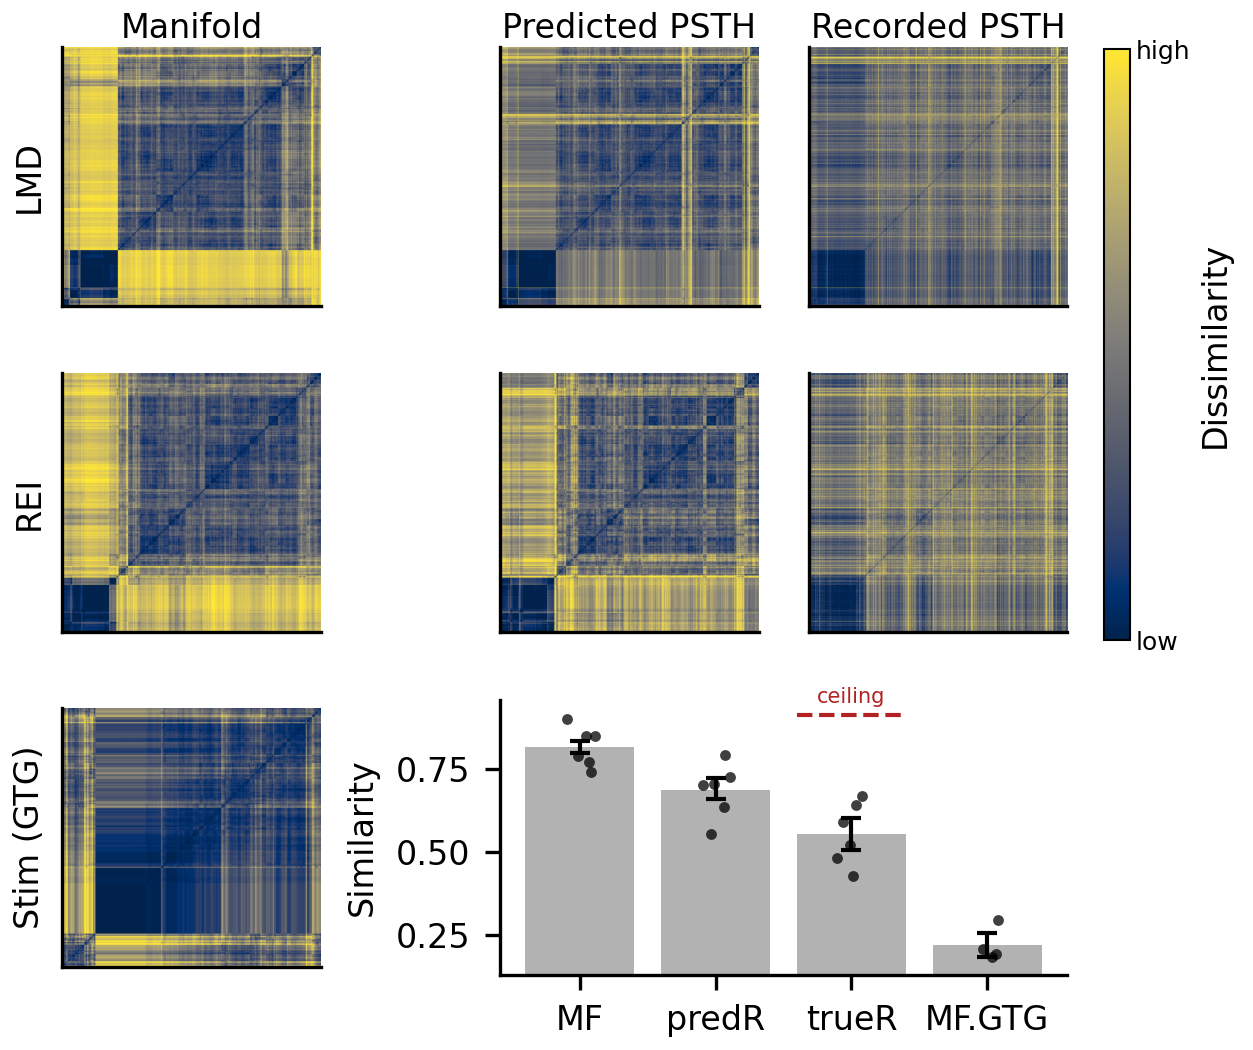
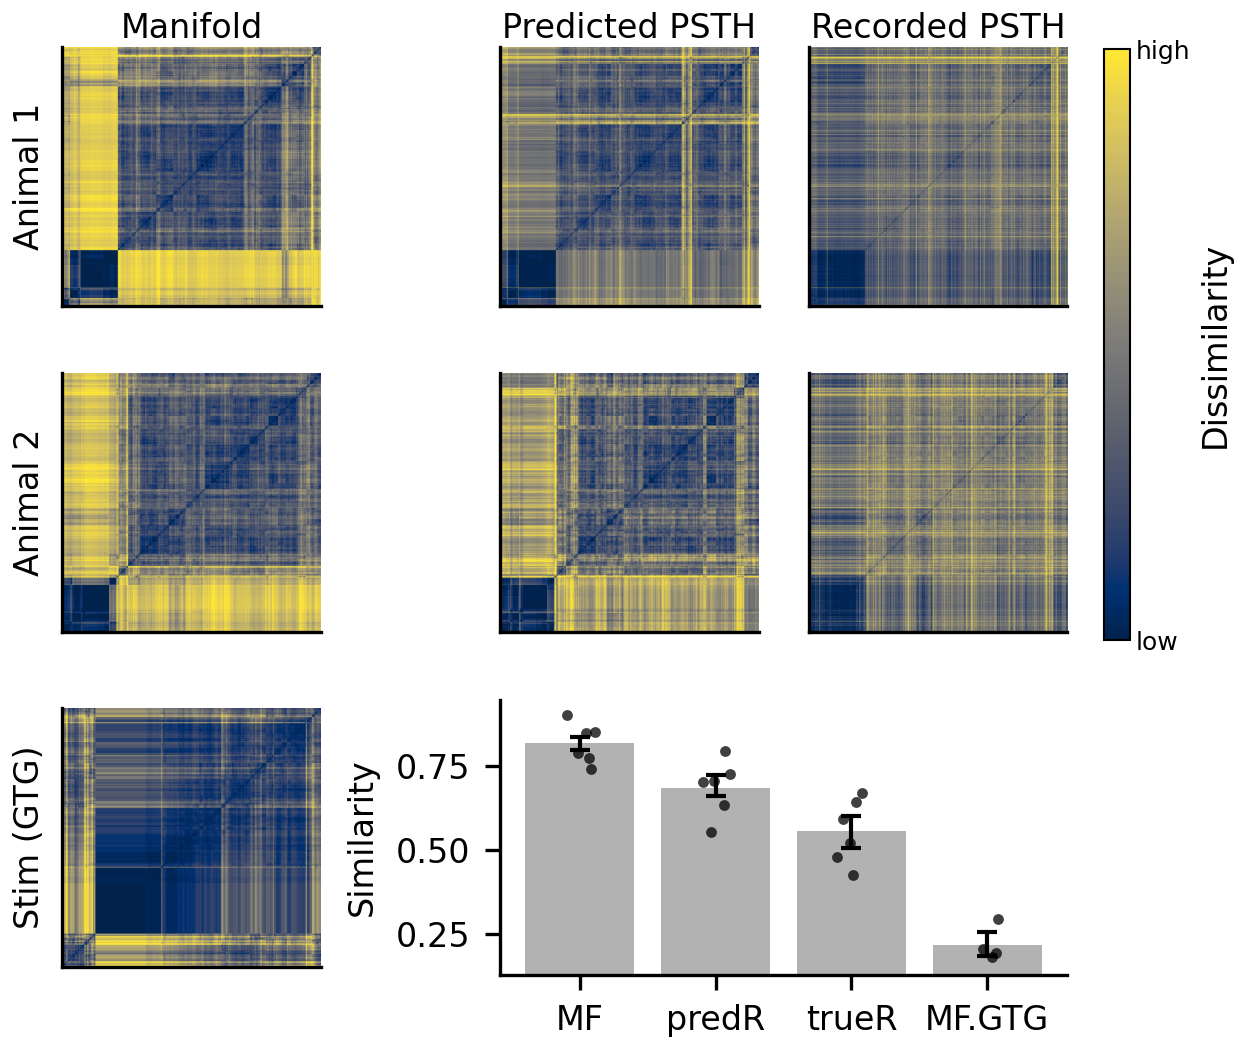
Fig2: drop the ceiling line, label the RDM rows by position
The recorded-PSTH noise ceiling is still computed and reported by print_stats
(mean pairwise ceiling 0.915, trueR at 0.606 of it) -- only the dashed line over
the trueR bar is gone, where it read as a fifth quantity.

The two RDM rows are example animals whose identity carries no meaning in that
panel, so they are labelled Animal 1 / Animal 2. The statistics printout keeps
the real IDs.

Claude-Session: https://claude.ai/code/session_01XjWeMXuc2q8dYeNcnzyg3T

diff --git a/manuscript/fig2.py b/manuscript/fig2.py
@@ -80,6 +80,9 @@ CBAR_STRIP_CM = CBAR_PAD_CM + CBAR_W_CM + CBAR_TEXT_CM
 FIG_W_CM = PANEL_AREA_W_CM + CBAR_STRIP_CM
 
 RDM_ROW_MODELS = [1, 3]        # which animals get an RDM row (LMD, REI)
+# The RDM rows are two example animals; their identity carries no meaning in this panel,
+# so they are labelled by position. The statistics printout below keeps the real IDs.
+RDM_ROW_LABELS = ['Animal 1', 'Animal 2']
 BAR_LABELS = ['MF', 'predR', 'trueR', 'MF.GTG']
 
 
@@ -263,7 +266,7 @@ def main():
         _show_rdm(sp_top[sp_idx][0], mf_sub, order)
         _show_rdm(sp_top[sp_idx][1], pred_sub, order)
         _show_rdm(sp_top[sp_idx][2], true_sub, order)
-        sp_top[sp_idx][0].set(ylabel=group_names[model_idx])
+        sp_top[sp_idx][0].set(ylabel=RDM_ROW_LABELS[sp_idx])
 
     # the three RDM columns are otherwise indistinguishable. Constrained layout takes
     # a title's height out of its own row, so a title on row 0 alone would make the
@@ -309,19 +312,12 @@ def main():
                                                   np.maximum(hi - means, 0)]),
                     fmt='none', ecolor='black', elinewidth=1, capsize=2.5, zorder=5)
 
-    # noise ceiling over the recorded-PSTH bar only: MF and predR are deterministic
-    # functions of the stimulus, so their ceiling is 1.0. The bar stays at its measured
-    # value -- the ceiling is shown, not applied.
-    ceil = float(np.nanmean(ref['ceiling_pair']))
-    x_true = BAR_LABELS.index('trueR')
-    ax_bar.plot([x_true - 0.4, x_true + 0.4], [ceil, ceil], ls='--', lw=1,
-                color='firebrick', zorder=6)
-    ax_bar.annotate('ceiling', xy=(x_true, ceil), xytext=(0, 2), textcoords='offset points',
-                    ha='center', va='bottom', fontsize=FONT_SIZE - 3, color='firebrick')
-
+    # The recorded-PSTH noise ceiling is NOT drawn. It is still computed and reported by
+    # `print_stats` (mean pairwise ceiling, and trueR as a fraction of it), which is
+    # where the attenuation argument belongs; on the bar it read as a fifth quantity.
     all_vals = np.concatenate([np.atleast_1d(bar_data[k]) for k in BAR_LABELS])
     ax_bar.set(xticks=x_pos, xticklabels=BAR_LABELS, ylabel='Similarity',
-               ylim=(all_vals.min() * 0.7, max(all_vals.max(), ceil) * 1.05))
+               ylim=(all_vals.min() * 0.7, all_vals.max() * 1.05))
 
     # ---- shared colour scale, in its own strip right of the panel area ----
     # Each heatmap is normalised independently (per-panel percentile clip), so an

diff --git a/manuscript/README.md b/manuscript/README.md
@@ -78,9 +78,9 @@ their representations are compared **across animals** by RSA over timepoints.
 
 | panel | content |
 |---|---|
-| RDM rows (LMD, REI) | timepoint x timepoint dissimilarity of the manifold, the predicted PSTHs and the recorded PSTHs, seriated by the manifold RDM |
+| RDM rows (two example animals) | timepoint x timepoint dissimilarity of the manifold, the predicted PSTHs and the recorded PSTHs, seriated by the manifold RDM |
 | stim RDM | the same for the stimulus gammatonegram itself |
-| bar | across-animal RSA: MF (manifold), predR (predicted PSTH), trueR (recorded PSTH), MF.GTG (manifold vs stimulus), with the stimulus-bootstrap 95% CI and the recorded-PSTH noise ceiling |
+| bar | across-animal RSA: MF (manifold), predR (predicted PSTH), trueR (recorded PSTH), MF.GTG (manifold vs stimulus), with the stimulus-bootstrap 95% CI |
 
 `fig2.py` rebuilds each encoder from its cached weights, runs it, and asserts the result
 reproduces the cached bootstrap reference statistic before plotting anything. Expected
